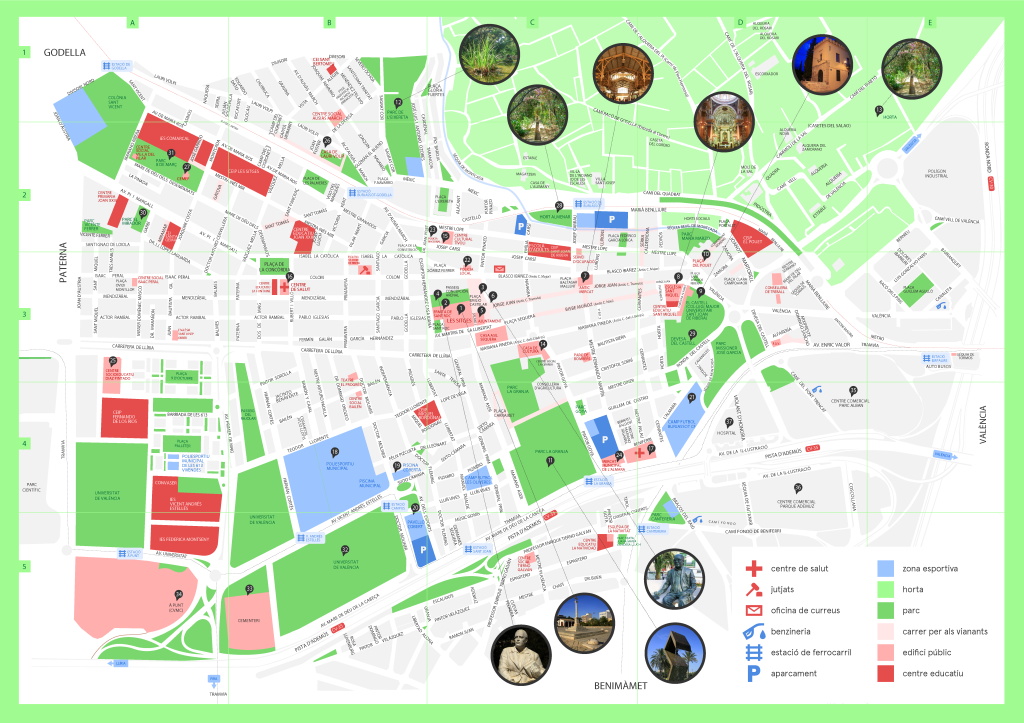
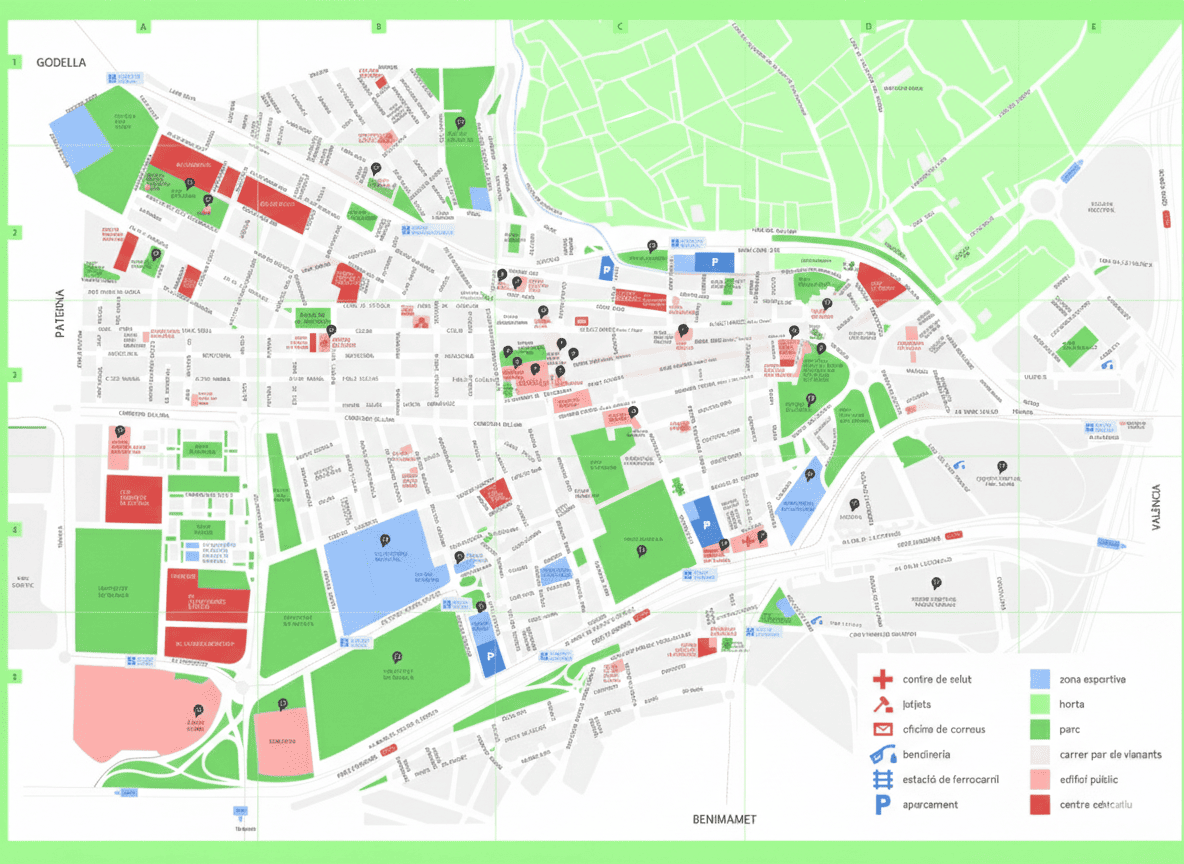
Cambiado el mapa por el modificado y textos completos de las ubicaciones mapa

Changed region(s): [[0.0, 0.0, 1.0, 0.9737], [0.8438, 0.6694, 0.875, 0.6999], [0.125, 0.0, 0.1562, 0.0304]]

diff --git a/src/components/component_Mapa/Mapa.jsx b/src/components/component_Mapa/Mapa.jsx
@@ -26,7 +26,7 @@ export default function Mapa() {
         }
         else if (evento.target.id == 'ubicacion2')
         {
-          setTexto('Iglesia de San Miguel Arcángel');
+          setTexto('La Iglesia de San Miguel Arcángel fue edificada en 1767 y destaca en su interior una serie de grandes esculturas realizadas en estuco blanco, de tres metros de altura y que representan a los doce apóstoles, a Pablo y a Bernabé y dos arcángeles Rafael y Gabriel.');
         }
         setLlegada(true);
         setDifuminado('flex');
@@ -90,9 +90,10 @@ function Historia({imagen, texto, cerrar}) {
   return (
     <div id="modal_juego">
       <div id="img_historia" style={{backgroundImage: imagen }}></div>
-      <p id="txt_juego">
-        { texto }
-      </p>
+        <p id="txt_juego">
+          { texto }
+        </p>
+
       <svg onClick={cerrar} id="close" viewBox="0 0 24 24" fill="none" xmlns="http://www.w3.org/2000/svg">
         <g id="SVGRepo_bgCarrier" stroke-width="0"></g>
         <g
